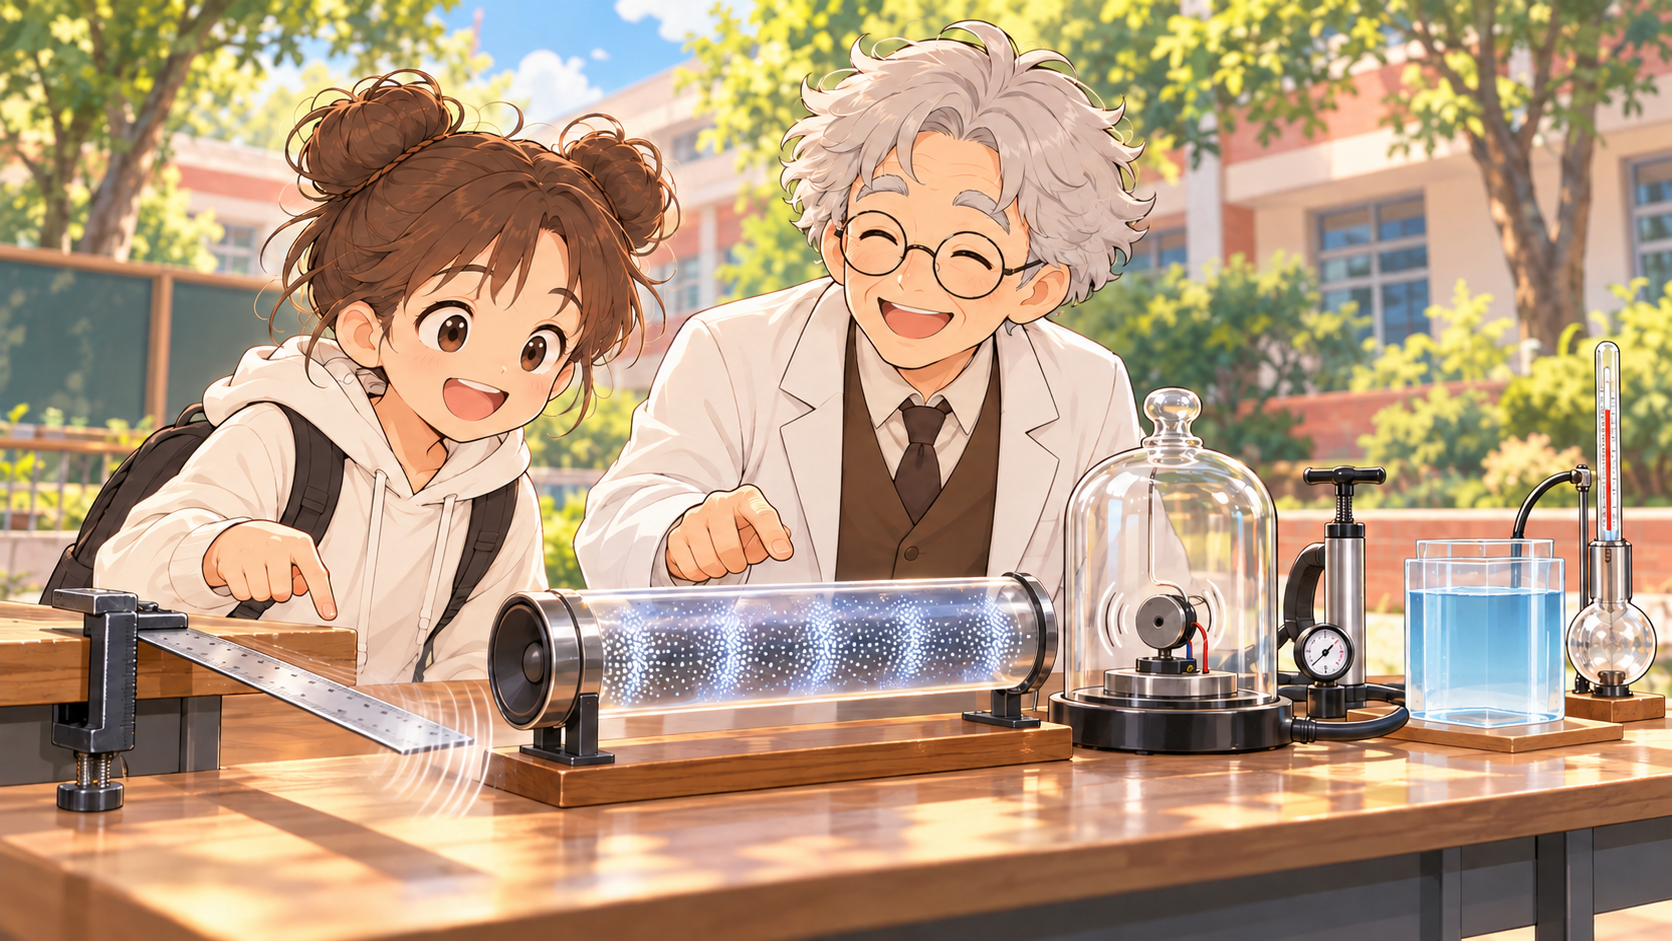
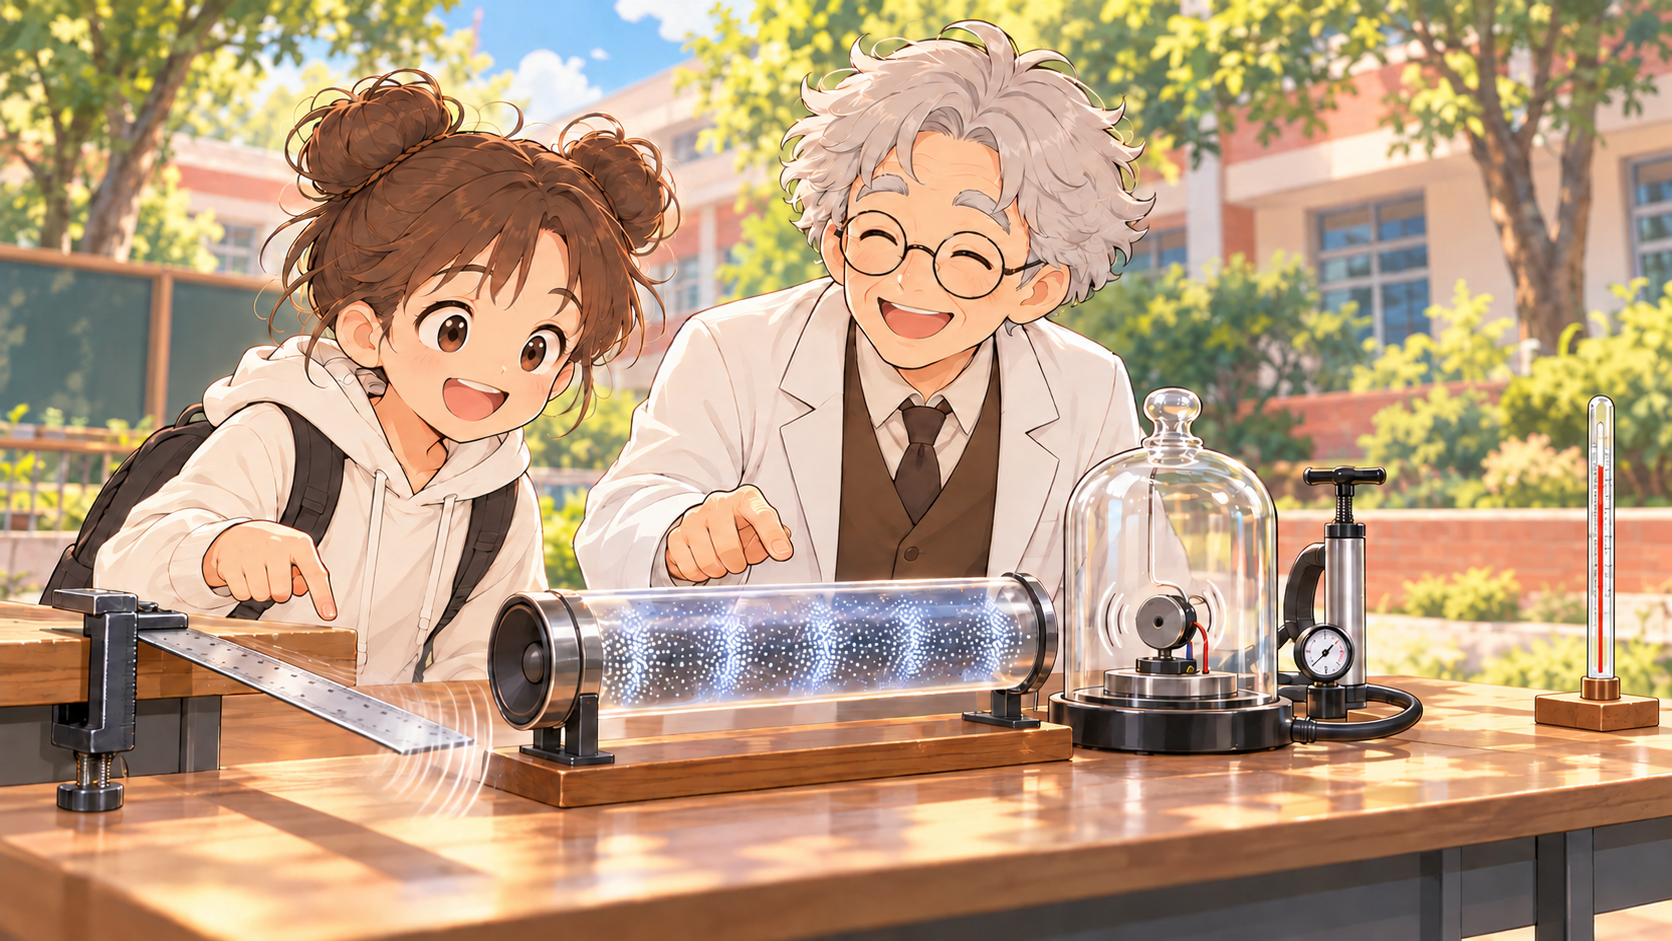
Remove unused water tank from unit 2.2 cover

diff --git a/units/2/parts/2.2/index.html b/units/2/parts/2.2/index.html
@@ -20,7 +20,7 @@
       <div class="hero-copy"><div class="eyebrow">波動與聲音｜學習單元 2.2</div><h1>鐘聲從操場另一端傳來，<br>它怎麼到達我們耳邊？</h1><p>校園科學活動中，小葵和阿公正在準備聲音展示。遠處的鐘聲傳來，他們從發聲物體的振動開始，追蹤聲音如何經過介質傳播。</p>
         <div class="dialogue dialogue--xiaokui hero-dialogue"><span class="speaker" aria-hidden="true"></span><p>剛才繩子上的波沿著繩子傳過來了，那鐘聲是怎麼穿過操場傳到這裡的？</p></div>
       </div>
-      <figure class="hero-art"><img src="assets/sound-story-opening.png?v=selected-b-clear-water" alt="小葵和阿公在校園科學活動中觀察被撥動而振動的鋼尺，遠處可見鐘樓；桌上展示空氣粒子管、抽氣鐘罩與水箱。"><figcaption class="hero-caption">小葵和阿公在校園裡觀察聲音從哪裡來、又如何傳開</figcaption></figure>
+      <figure class="hero-art"><img src="assets/sound-story-opening.png?v=selected-b-no-tank" alt="小葵和阿公在校園科學活動中觀察被撥動而振動的鋼尺；桌上展示空氣粒子管、抽氣鐘罩和空氣溫度計。"><figcaption class="hero-caption">小葵和阿公在校園裡觀察聲音從哪裡來、又如何傳開</figcaption></figure>
     </div>
   </header>
   <main class="shell lesson">
